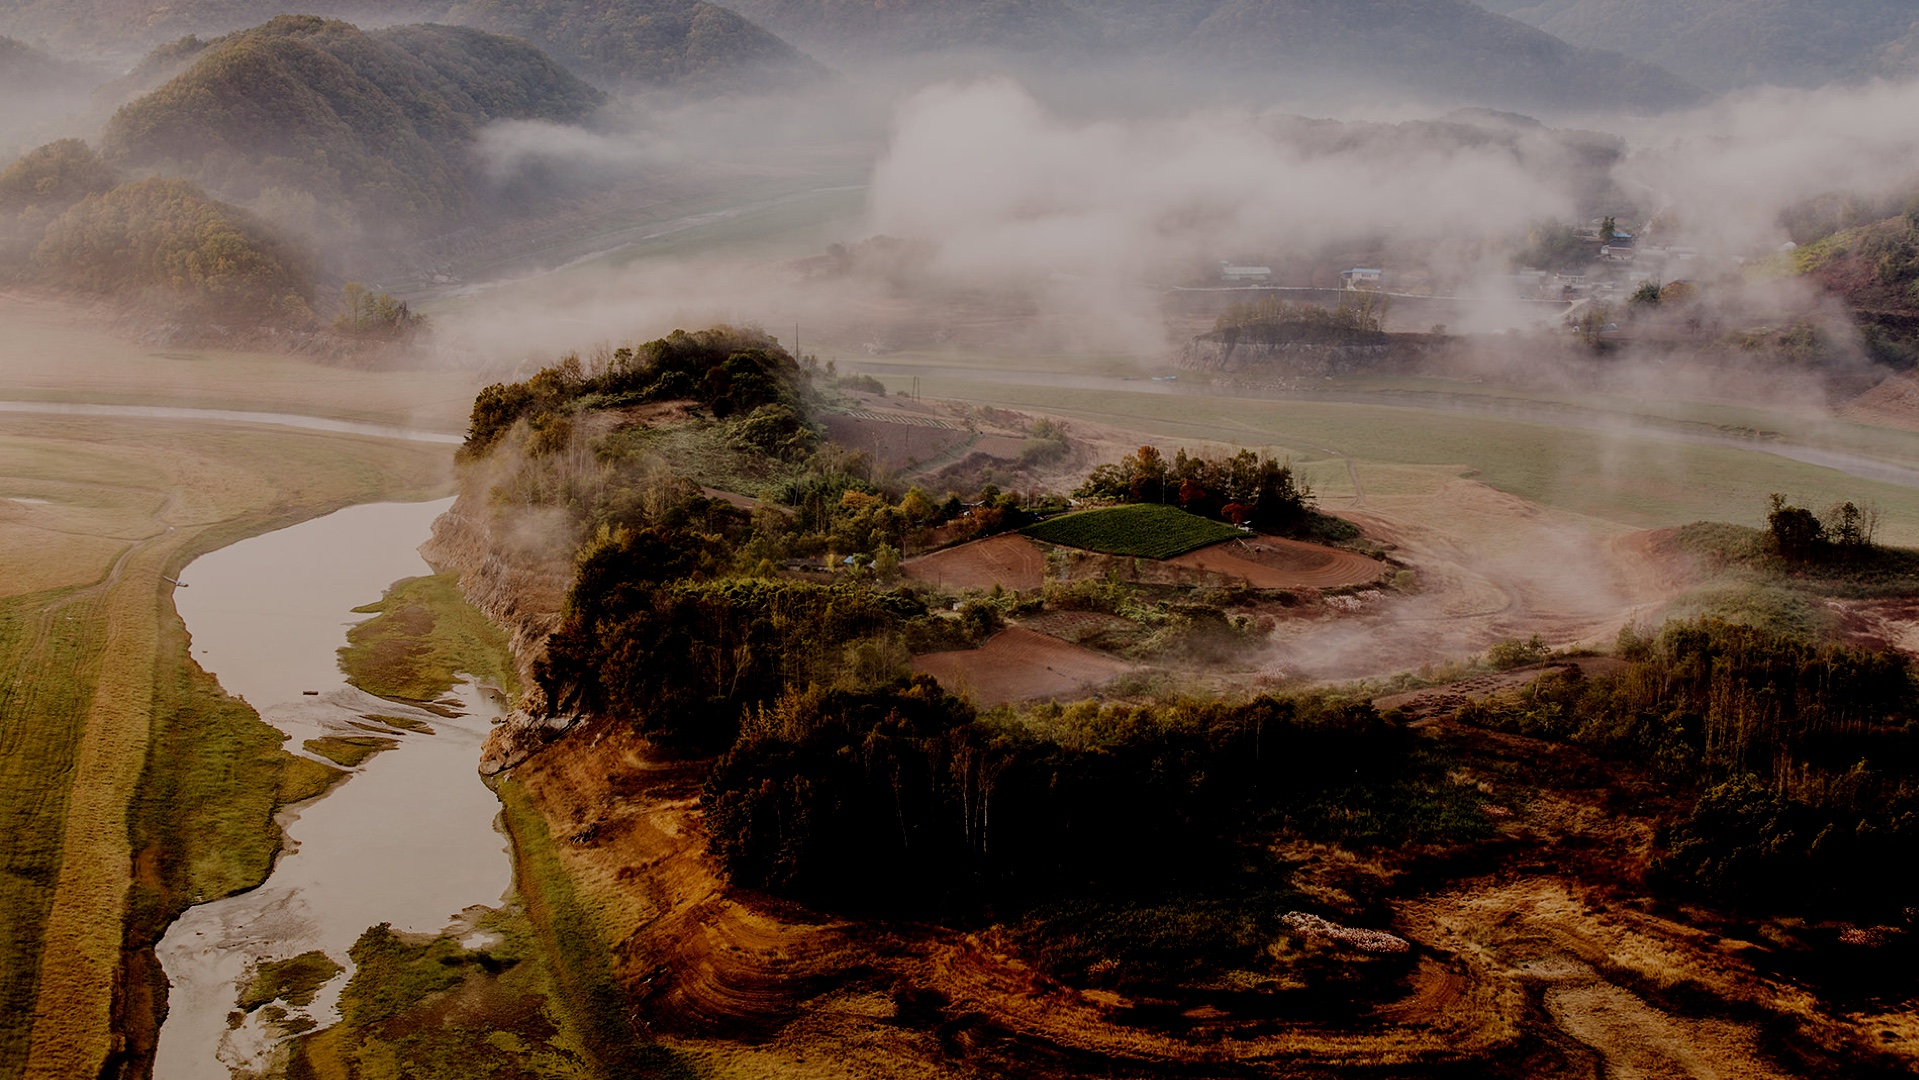
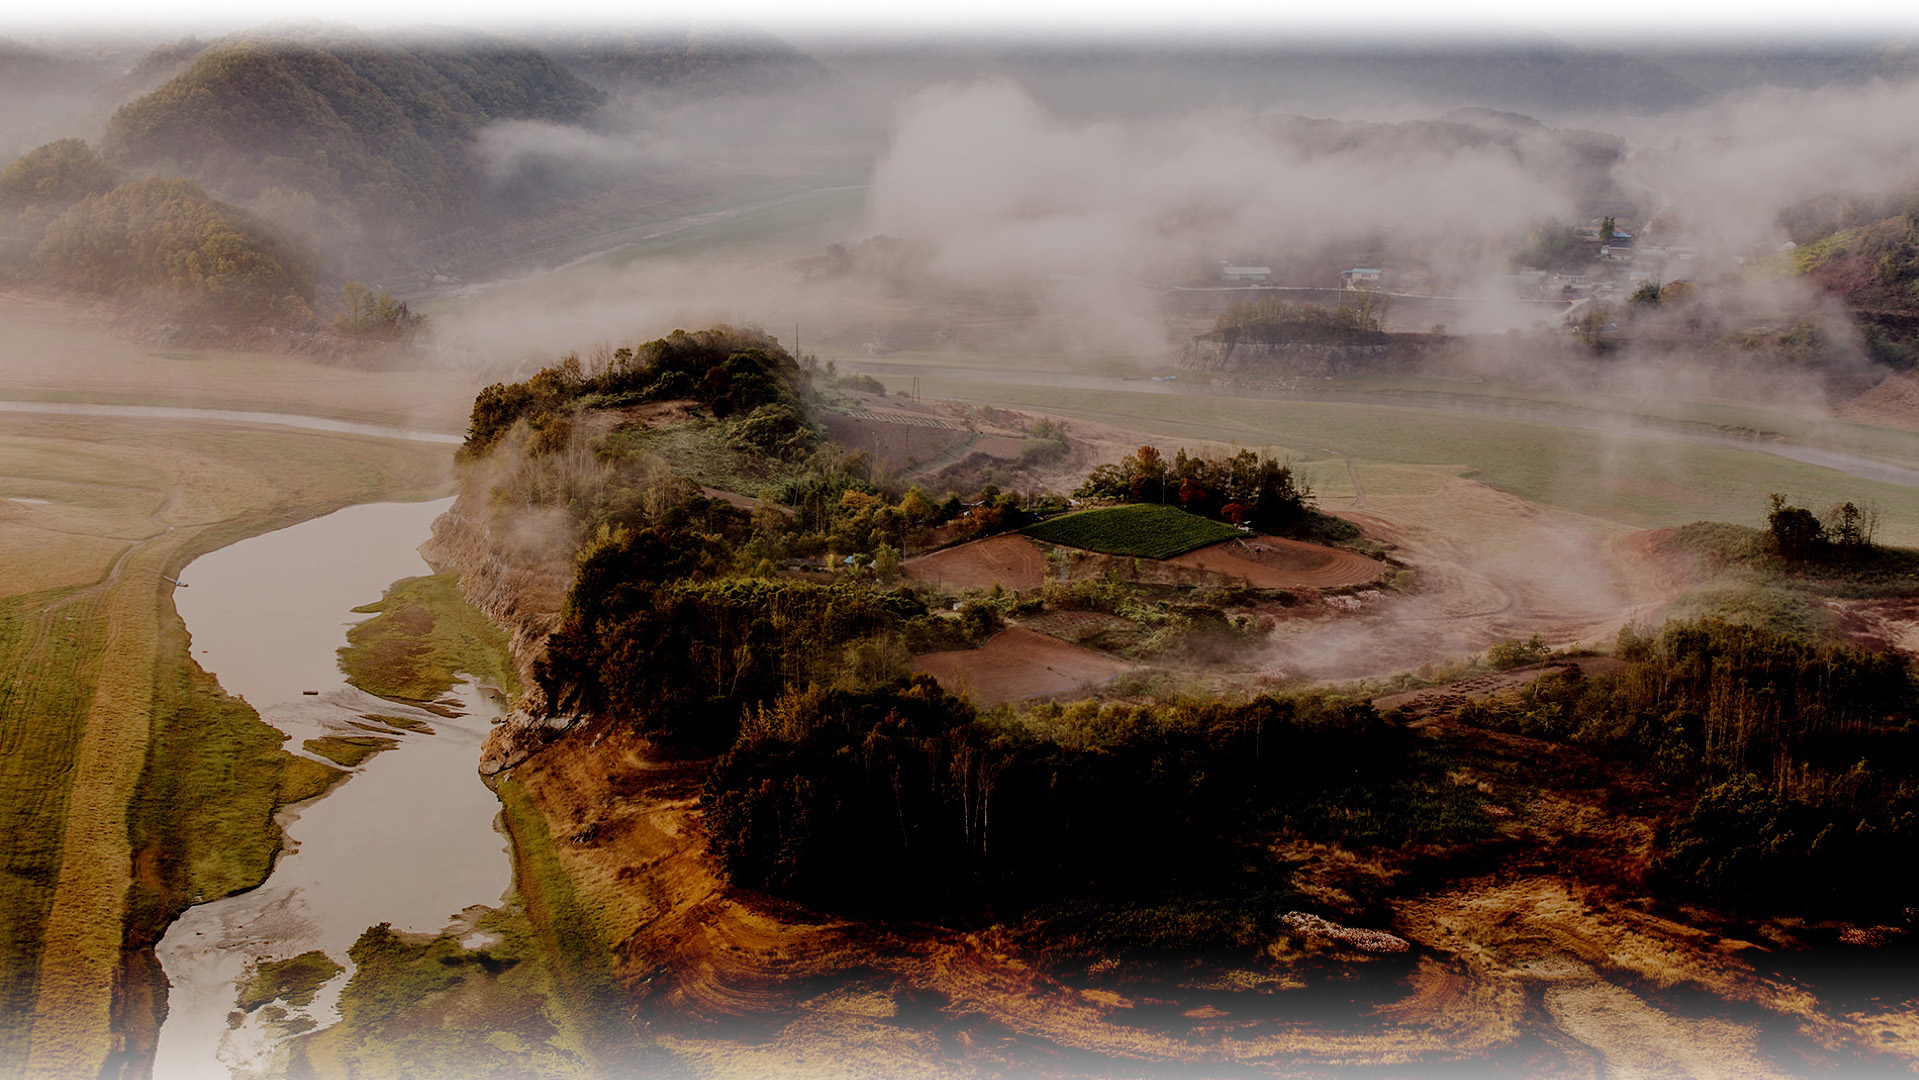
deleted color thief - changed to gradient pictures

Changed region(s): [[0.0, 0.8861, 1.0, 1.0], [0.0, 0.0, 1.0, 0.0611]]

diff --git a/src/assets/scripts/main.js b/src/assets/scripts/main.js
@@ -1,36 +1,4 @@
 (function ($) {
 
-  function arrayToRGB ( array ) {
-  return "rgb(" + array[0] + ", " + array[1] + ", " + array[2] + ")";
-  }
-
-  function processImages () {
-    var targetImages = $('.hero__gradient img')
-    targetImages.each(function (index) {
-      var targetImage = targetImages [index];
-      var targetImage1 = targetImages [index + 1];
-
-
-
-      var colorThief = new ColorThief();
-      var startColor = colorThief.getColor (targetImage);
-      if (targetImage1 === undefined) {
-        var endColor = [250, 250, 250];
-      } else {
-        var endColor = colorThief.getColor (targetImage1);
-      }
-      console.log($(this).parent());
-      $(this).parent().css({
-        'background': 'linear-gradient(to bottom, ' + arrayToRGB(startColor) + ', ' + arrayToRGB(endColor) + ')'
-      })
-
-    });
-  }
-
-  $(document).ready(function () {
-
-    processImages();
-
-  });
 
 })(jQuery);

diff --git a/src/templates/blocks/hydro/hydro.sass b/src/templates/blocks/hydro/hydro.sass
@@ -4,7 +4,7 @@
   top: 0
   width: 100%
   height: 85%
-  background-image: url('../images/hero--hydro.jpg')
+  background-image: url('../images/hero--hydro.png')
   background-position: center center
   background-repeat: no-repeat
   background-size: cover
